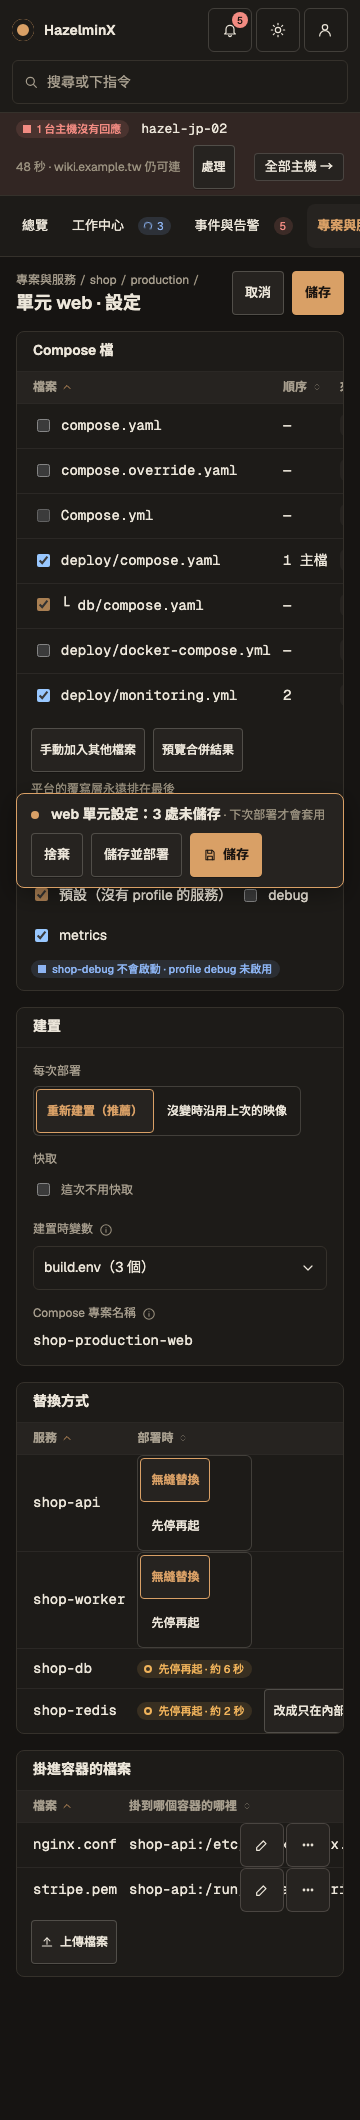
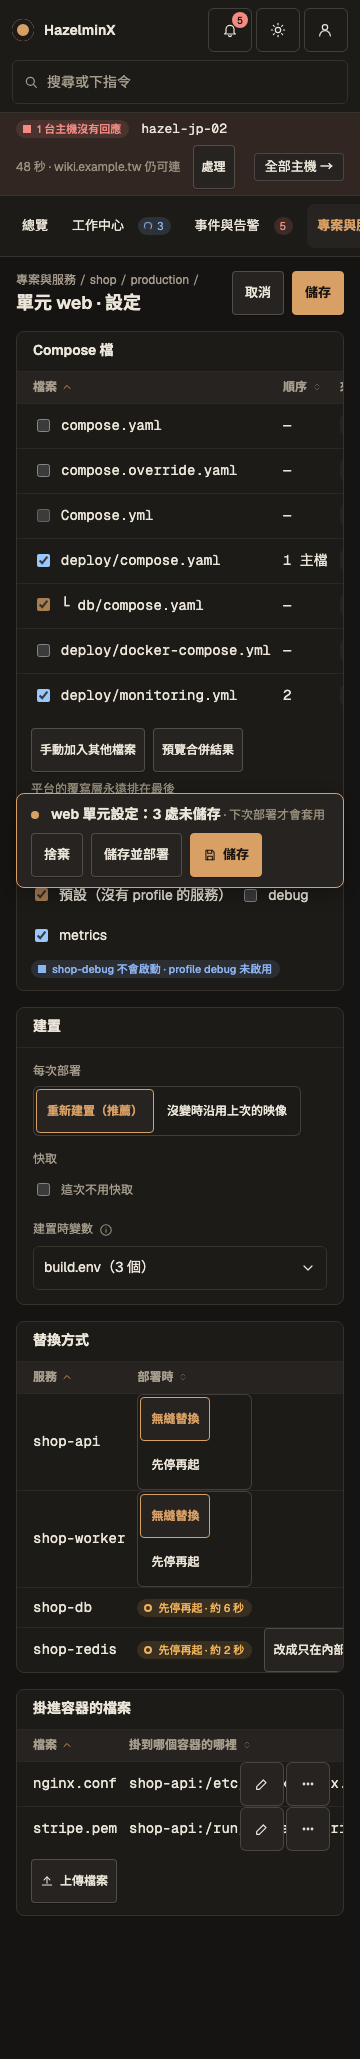
design: drop the internal Compose project name from the unit build settings

diff --git a/design/screens/UnitConfig.dc.html b/design/screens/UnitConfig.dc.html
@@ -509,7 +509,7 @@ body{margin:0}
       <div style="padding:12px 14px;display:flex;flex-direction:column;gap:8px">
         <div class="wrap"><label style="display:flex;gap:8px;align-items:center;min-height:32px"><span tabindex="0" data-tip="沒有 profile 的服務一定會啟動"><input type="checkbox" class="lockck" checked aria-disabled="true" tabindex="-1" aria-label="預設（沒有 profile 的服務）（沒有 profile 的服務一定會啟動）"></span>預設（沒有 profile 的服務）</label><label style="display:flex;gap:8px;align-items:center;min-height:32px"><input type="checkbox">debug</label><label style="display:flex;gap:8px;align-items:center;min-height:32px"><input type="checkbox" checked>metrics</label></div>
         <div class="wrap"><span class="st info"><i aria-hidden="true"></i>shop-debug 不會啟動 · profile debug 未啟用</span></div>
-      </div></section><section class="panel"><div class="ph"><h2>建置</h2></div><div style="padding:14px 16px;display:grid;grid-template-columns:repeat(auto-fit,minmax(min(240px,100%),1fr));gap:14px"><div class="field"><label>每次部署</label><div class="range" role="group" aria-label="建置" style="flex-wrap:wrap"><button type="button" class="btn on" aria-pressed="true">重新建置（推薦）</button><button type="button" class="btn" aria-pressed="false">沒變時沿用上次的映像</button></div></div><div class="field"><label>快取</label><label style="display:flex;gap:8px;align-items:center;min-height:32px"><input type="checkbox">這次不用快取</label></div><div class="field"><label>建置時變數 <span class="hint" tabindex="0" role="img" aria-label="以 build args 提供，不會進到執行中的容器" data-tip="以 build args 提供，不會進到執行中的容器"><svg viewBox="0 0 24 24" width="14" height="14" fill="none" stroke="currentColor" stroke-width="1.8" stroke-linecap="round" stroke-linejoin="round" aria-hidden="true"><circle cx="12" cy="12" r="9"/><path d="M12 11v5M12 8h.01"/></svg></span></label><div class="inp"><span style="flex:1;min-width:0;overflow-wrap:anywhere">build.env（3 個）</span><svg viewBox="0 0 24 24" width="16" height="16" fill="none" stroke="currentColor" stroke-width="1.8" stroke-linecap="round" stroke-linejoin="round" aria-hidden="true"><path d="m6 9 6 6 6-6"/></svg></div></div><div class="field"><label>Compose 專案名稱 <span class="hint" tabindex="0" role="img" aria-label="改單元名稱也不會變；儲存卷是 shop-production-web_uploads" data-tip="改單元名稱也不會變；儲存卷是 shop-production-web_uploads"><svg viewBox="0 0 24 24" width="14" height="14" fill="none" stroke="currentColor" stroke-width="1.8" stroke-linecap="round" stroke-linejoin="round" aria-hidden="true"><circle cx="12" cy="12" r="9"/><path d="M12 11v5M12 8h.01"/></svg></span></label><span class="mono">shop-production-web</span></div></div></section></div><section class="panel"><div class="ph"><h2>替換方式</h2></div>
+      </div></section><section class="panel"><div class="ph"><h2>建置</h2></div><div style="padding:14px 16px;display:grid;grid-template-columns:repeat(auto-fit,minmax(min(240px,100%),1fr));gap:14px"><div class="field"><label>每次部署</label><div class="range" role="group" aria-label="建置" style="flex-wrap:wrap"><button type="button" class="btn on" aria-pressed="true">重新建置（推薦）</button><button type="button" class="btn" aria-pressed="false">沒變時沿用上次的映像</button></div></div><div class="field"><label>快取</label><label style="display:flex;gap:8px;align-items:center;min-height:32px"><input type="checkbox">這次不用快取</label></div><div class="field"><label>建置時變數 <span class="hint" tabindex="0" role="img" aria-label="以 build args 提供，不會進到執行中的容器" data-tip="以 build args 提供，不會進到執行中的容器"><svg viewBox="0 0 24 24" width="14" height="14" fill="none" stroke="currentColor" stroke-width="1.8" stroke-linecap="round" stroke-linejoin="round" aria-hidden="true"><circle cx="12" cy="12" r="9"/><path d="M12 11v5M12 8h.01"/></svg></span></label><div class="inp"><span style="flex:1;min-width:0;overflow-wrap:anywhere">build.env（3 個）</span><svg viewBox="0 0 24 24" width="16" height="16" fill="none" stroke="currentColor" stroke-width="1.8" stroke-linecap="round" stroke-linejoin="round" aria-hidden="true"><path d="m6 9 6 6 6-6"/></svg></div></div></div></section></div><section class="panel"><div class="ph"><h2>替換方式</h2></div>
       <div class="tw" style="--tc:auto auto var(--k3,minmax(min(160px,34%),1fr)) auto"><div class="row hd r0"><span class=""><span class="sortable on">服務 <svg viewBox="0 0 24 24" width="12" height="12" fill="none" stroke="currentColor" stroke-width="1.8" stroke-linecap="round" stroke-linejoin="round" aria-hidden="true"><path d="m6 15 6-6 6 6"/></svg></span></span><span class=""><span class="sortable">部署時 <svg viewBox="0 0 24 24" width="12" height="12" fill="none" stroke="currentColor" stroke-width="1.8" stroke-linecap="round" stroke-linejoin="round" aria-hidden="true"><path d="m8 10 4-4 4 4"/><path d="m8 14 4 4 4-4"/></svg></span></span><span class="c3"><span class="sortable">依據 <svg viewBox="0 0 24 24" width="12" height="12" fill="none" stroke="currentColor" stroke-width="1.8" stroke-linecap="round" stroke-linejoin="round" aria-hidden="true"><path d="m8 10 4-4 4 4"/><path d="m8 14 4 4 4-4"/></svg></span></span><span class=""></span></div>
       <div class="row r0"><span class="mono">shop-api</span><span><div class="range" role="group" aria-label="shop-api" style="flex-wrap:wrap"><button type="button" class="btn on" aria-pressed="true">無縫替換</button><button type="button" class="btn" aria-pressed="false">先停再起</button></div></span><span class="c3 note">健康檢查 /healthz</span><span></span></div>
       <div class="row r0"><span class="mono">shop-worker</span><span><div class="range" role="group" aria-label="shop-worker" style="flex-wrap:wrap"><button type="button" class="btn on" aria-pressed="true">無縫替換</button><button type="button" class="btn" aria-pressed="false">先停再起</button></div></span><span class="c3 note">佇列消費者</span><span></span></div>

diff --git a/design/tools/build_screens.py b/design/tools/build_screens.py
@@ -4411,8 +4411,7 @@ def unit_config() -> str:
     build = _fp("建置", _grid(
         _fld("每次部署", _seg(["重新建置（推薦）", "沒變時沿用上次的映像"], 0, "建置")),
         _fld("快取", _cb("這次不用快取", False)),
-        _fld("建置時變數", _dd("build.env（3 個）"), "以 build args 提供，不會進到執行中的容器"),
-        _fld("Compose 專案名稱", '<span class="mono">shop-production-web</span>', "改單元名稱也不會變；儲存卷是 shop-production-web_uploads")))
+        _fld("建置時變數", _dd("build.env（3 個）"), "以 build args 提供，不會進到執行中的容器")))
     cfiles = _fp("掛進容器的檔案", f"""
       <div class="row hd"><span>檔案</span><span>掛到哪個容器的哪裡</span><span class="c3">來源</span><span></span></div>
       <div class="row"><span class="mono">nginx.conf</span><span class="mono">shop-api:/etc/nginx/nginx.conf</span><span class="c3">平台上傳 · v4</span><span>{U.actions(["rename", "more"])}</span></div>
